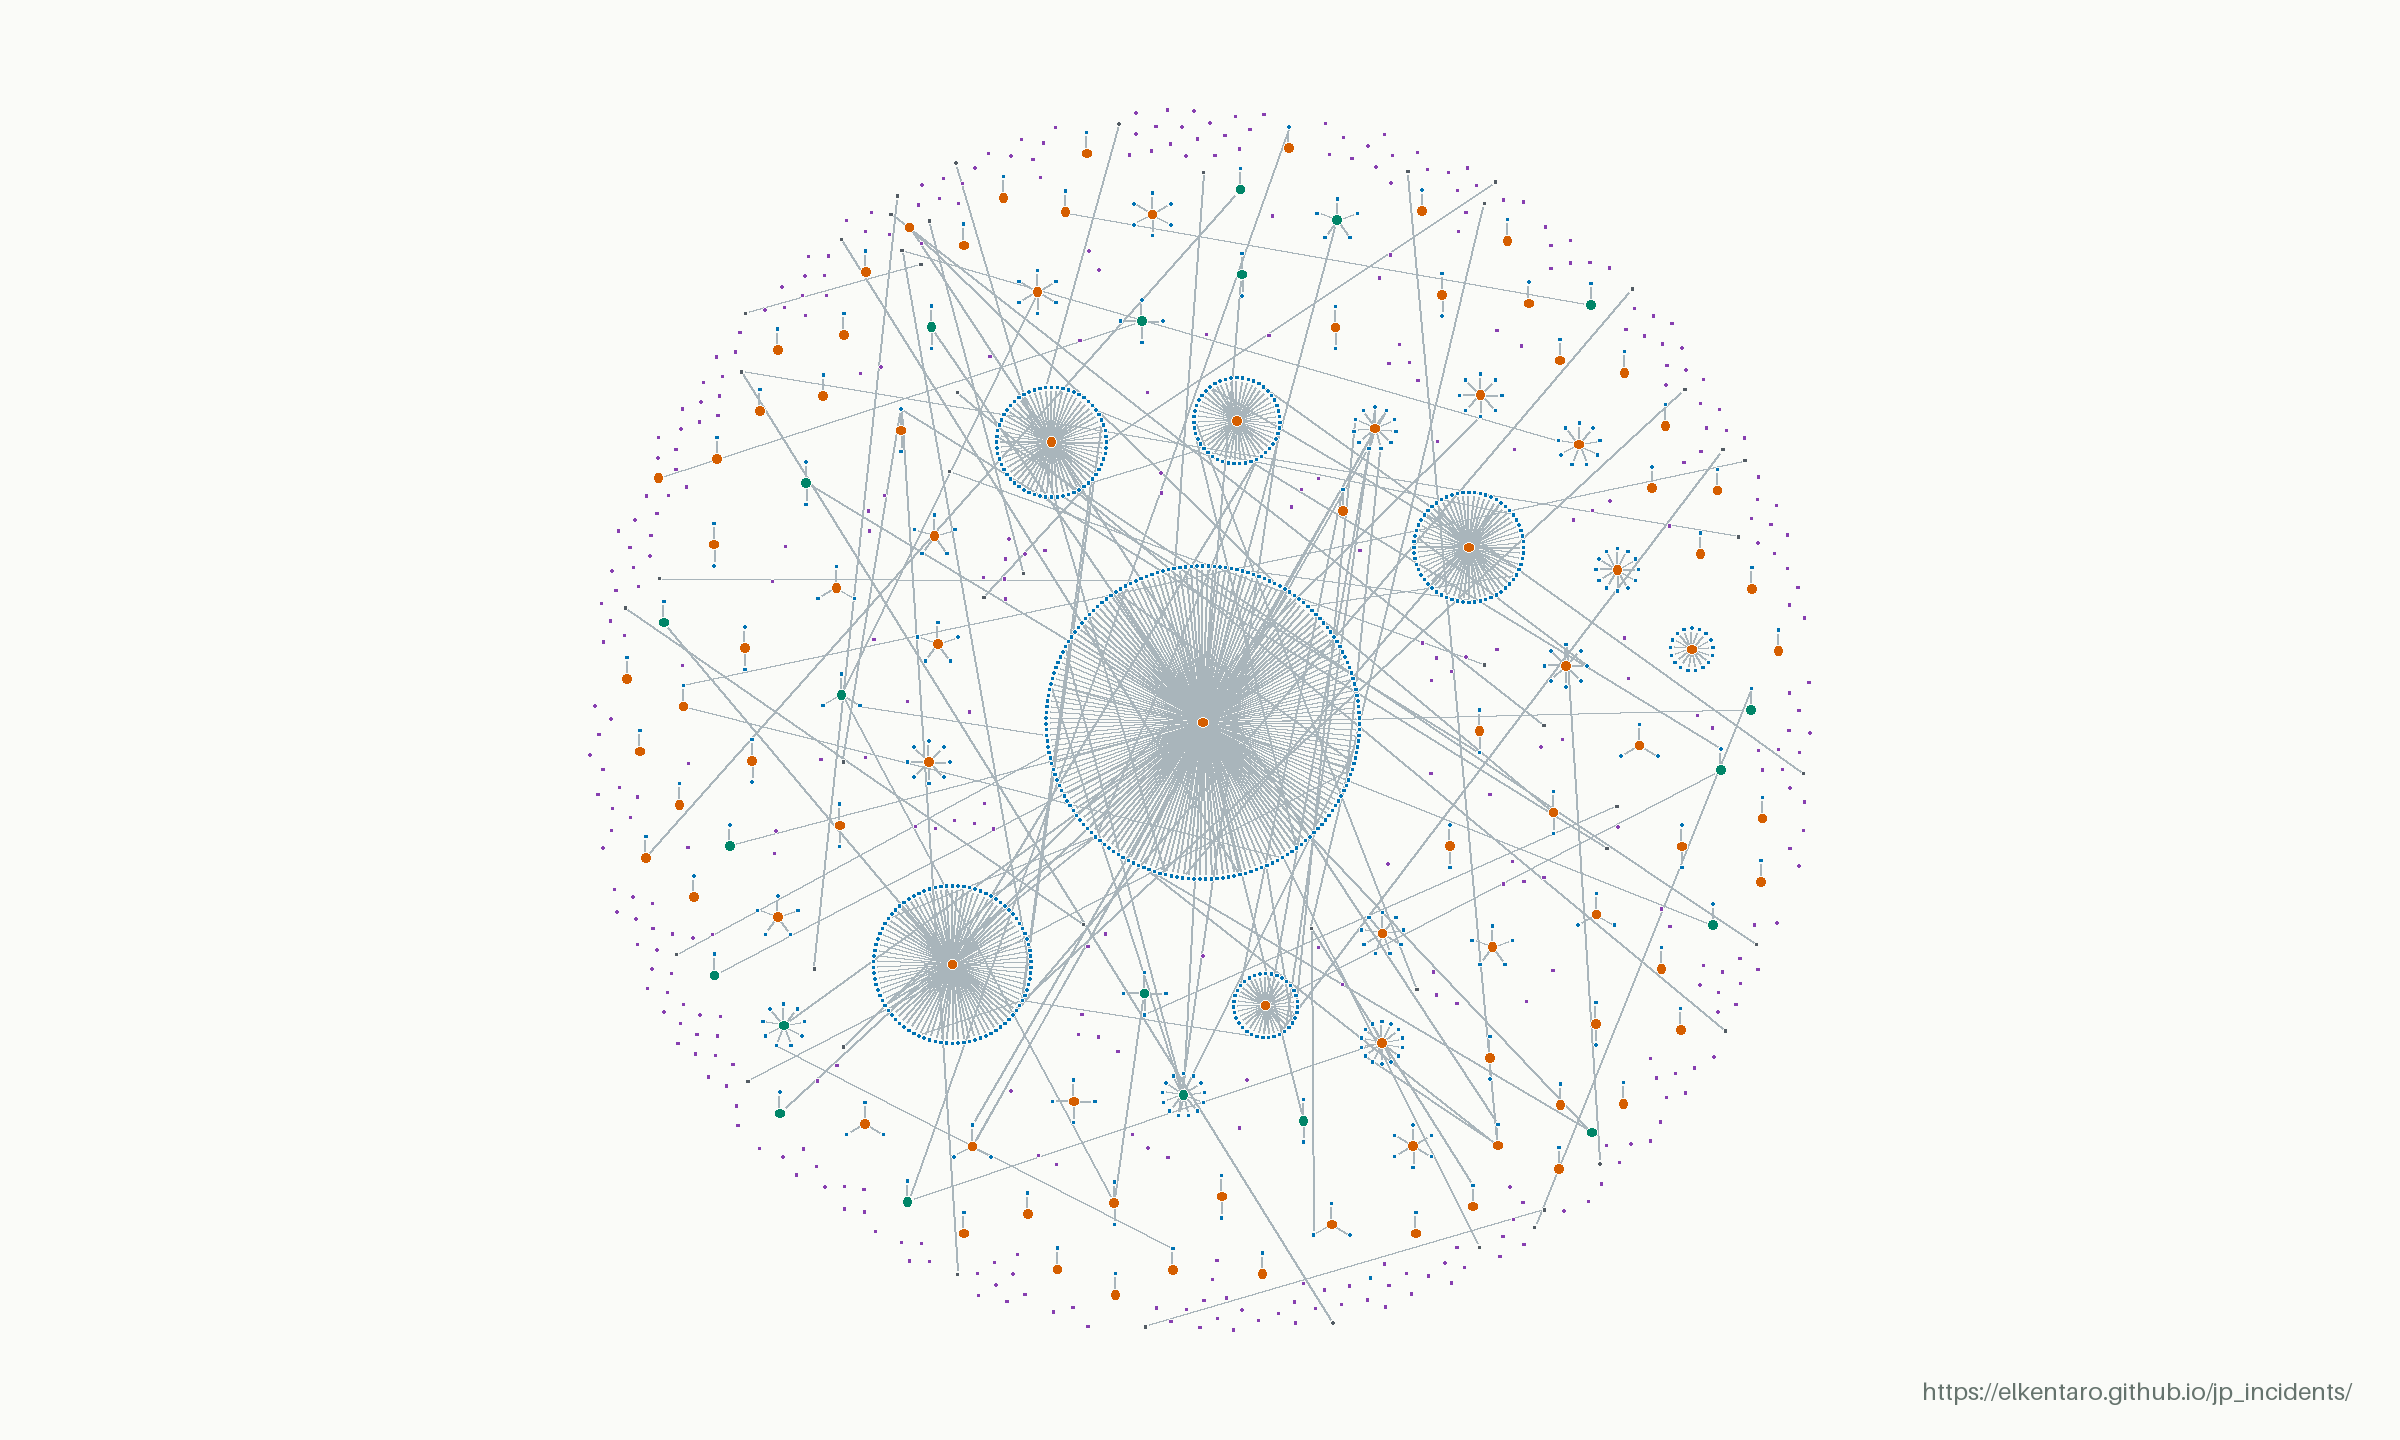
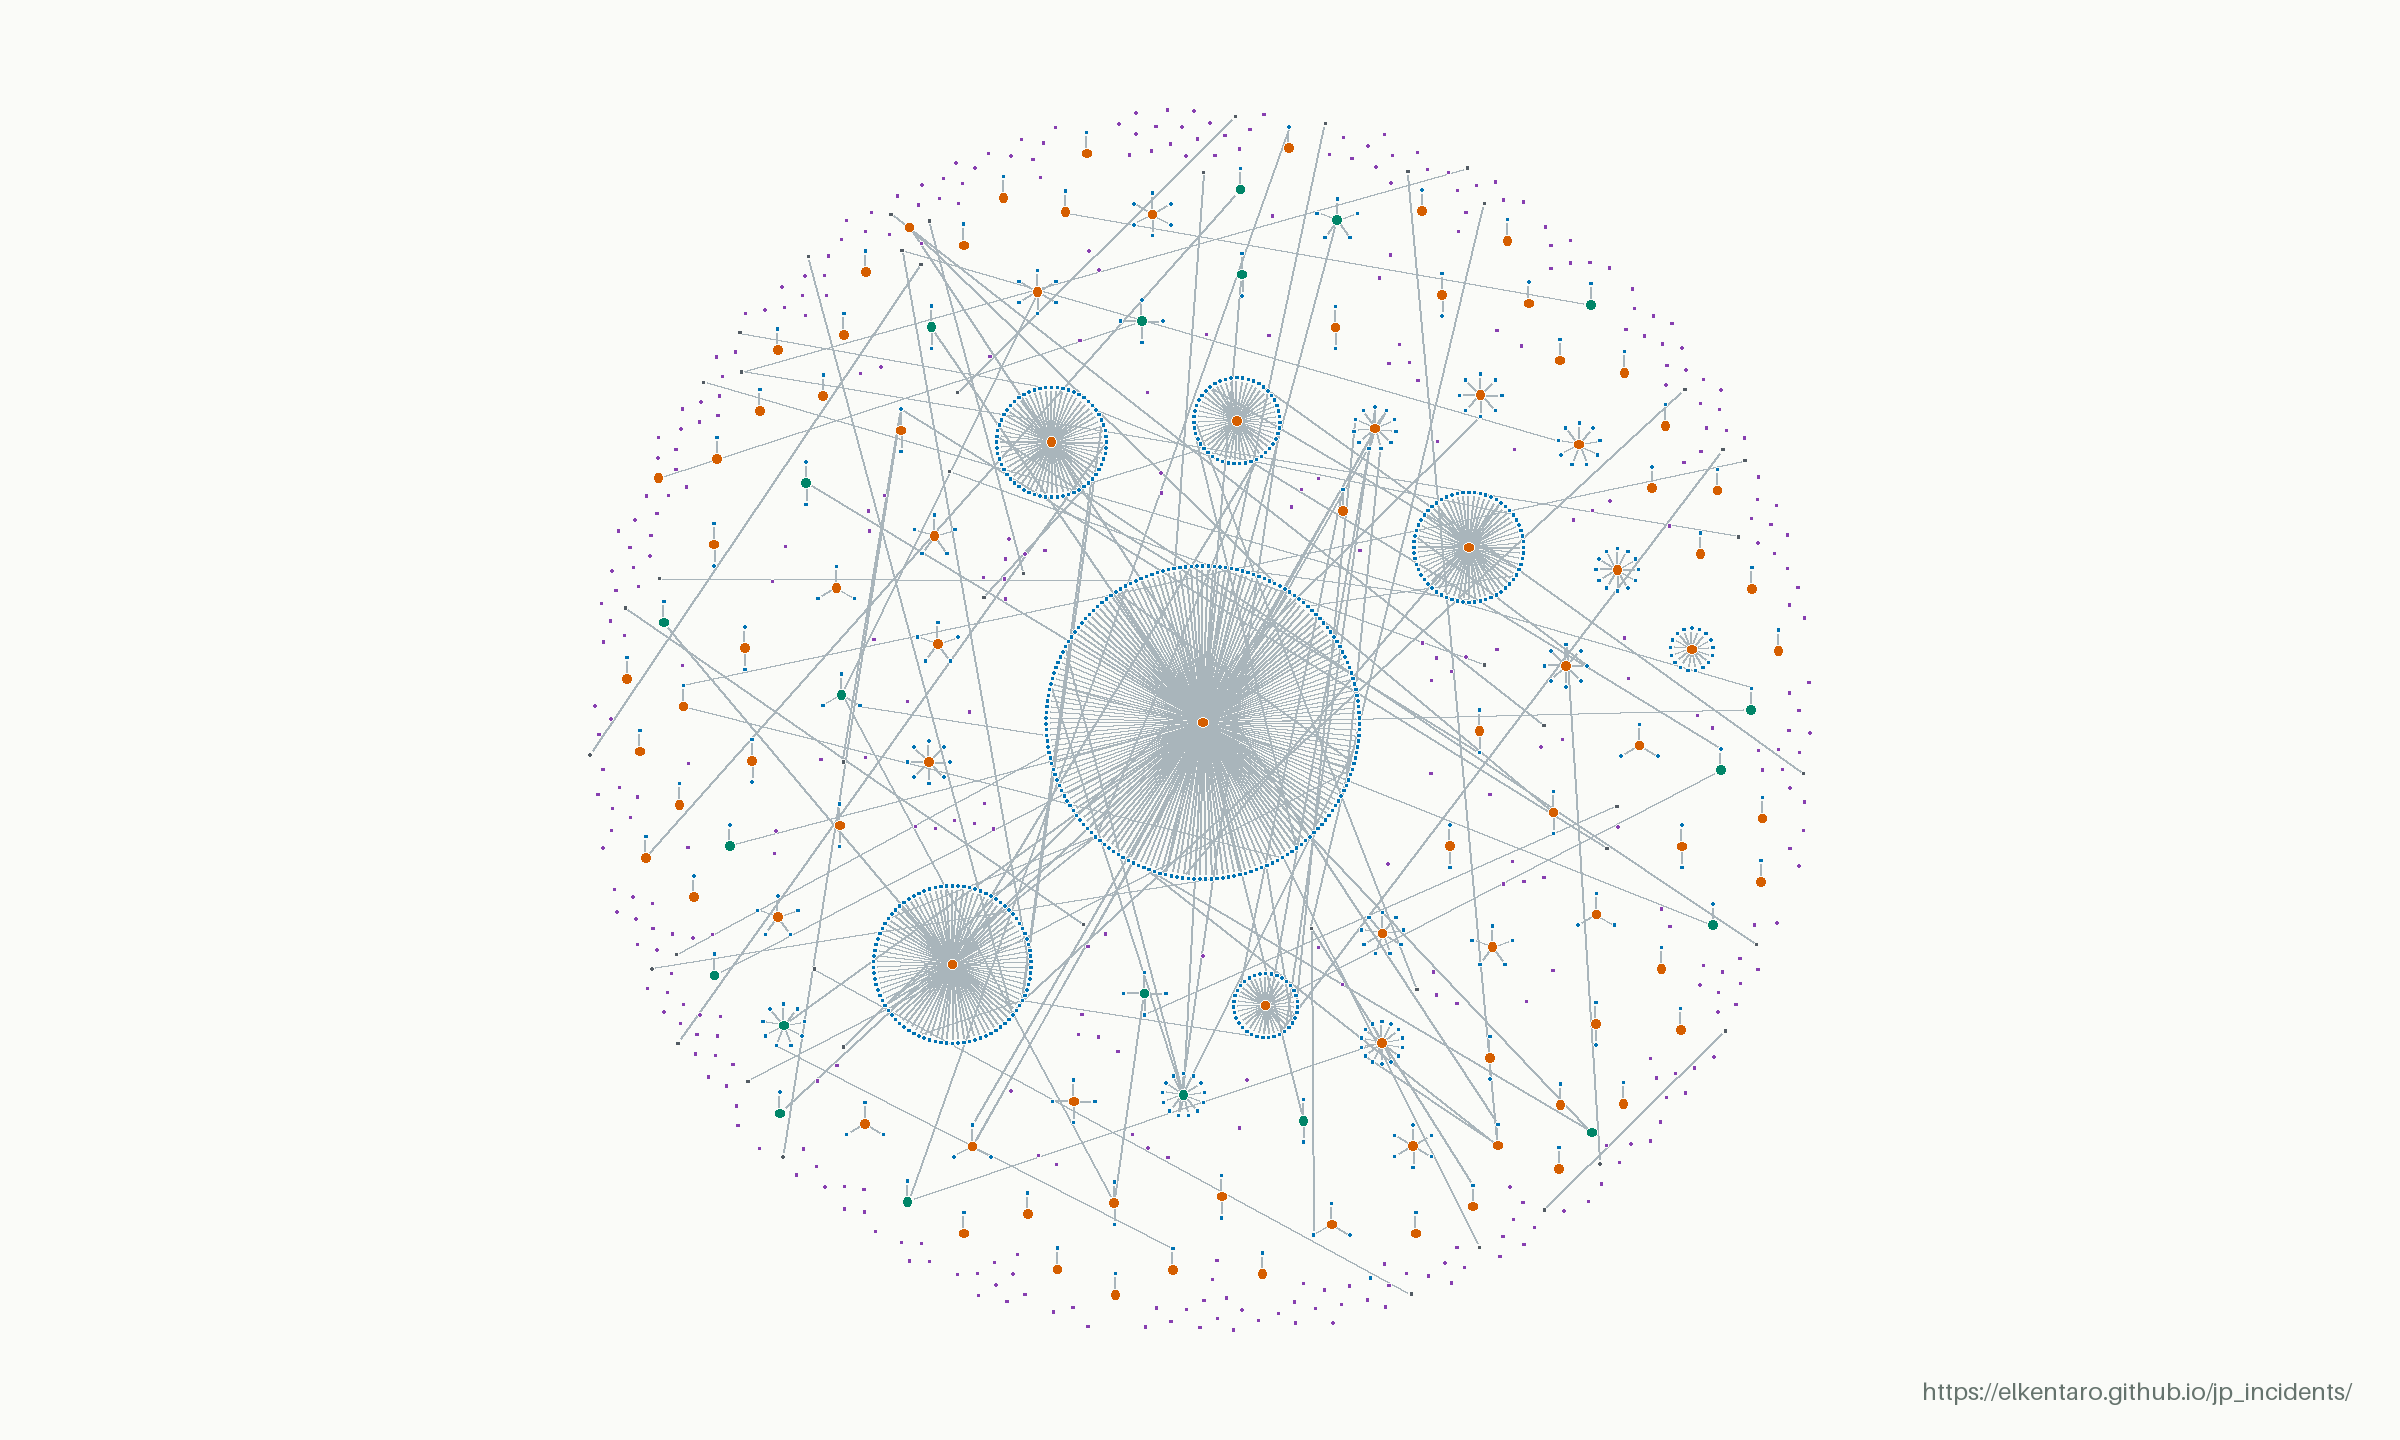
Update incident data (2026-11-17 02:17 UTC)

Changed region(s): [[0.375, 0.4688, 0.4062, 0.5], [0.3438, 0.2188, 0.375, 0.25]]

diff --git a/linkage.html b/linkage.html
@@ -32,15 +32,15 @@
     </section>
     <section class="direct-summary" aria-labelledby="direct-title">
       <dl class="direct-stats">
-        <div class="direct-total"><dt id="direct-title" data-copy="direct">Direct incidents</dt><dd id="direct-count">523</dd></div>
+        <div class="direct-total"><dt id="direct-title" data-copy="direct">Direct incidents</dt><dd id="direct-count">524</dd></div>
         <div><dt data-copy="directUpstream">Upstream incidents</dt><dd id="upstream-count">91</dd></div>
-        <div><dt data-copy="directStandalone">Standalone incidents</dt><dd id="standalone-count">432</dd></div>
+        <div><dt data-copy="directStandalone">Standalone incidents</dt><dd id="standalone-count">433</dd></div>
       </dl>
       <p class="direct-excluded"><strong id="downstream-count">768</strong> <span data-copy="directExcluded">downstream records excluded, including incidents with both roles.</span></p>
       <p class="direct-definition" data-copy="directDefinition">Direct incidents = upstream + standalone, based on recorded causal links. Standalone incidents have no upstream or downstream causal links, but may have other links, such as separate events at the same organization.</p>
     </section>
     <dl class="map-stats">
-      <div><dt data-copy="total">Incidents in snapshot</dt><dd>1291</dd></div>
+      <div><dt data-copy="total">Incidents in snapshot</dt><dd>1292</dd></div>
       <div><dt data-copy="linked">With recorded connections</dt><dd>905</dd></div>
       <div><dt data-copy="links">Recorded connections</dt><dd>855</dd></div>
       <div><dt data-copy="networks">Connected networks</dt><dd>79</dd></div>
@@ -50,13 +50,13 @@
         <img src="data/linkage-map.png" width="2400" height="1440" alt="Anonymized incident map. Orange upstream hubs connect to blue downstream incidents; purple unlinked incidents appear throughout the same map without connecting lines." data-copy-alt="alt">
       </div>
       <figcaption>
-        <div class="map-caption-meta"><span><span data-copy="updated">Last updated</span>: <time datetime="2026-11-17T01:16:38.736422+00:00">2026-11-17 01:16 UTC</time></span><a href="data/linkage-map.png" target="_blank" rel="noopener" data-copy="open">Open full-resolution image ↗</a></div>
+        <div class="map-caption-meta"><span><span data-copy="updated">Last updated</span>: <time datetime="2026-11-17T02:16:00.550447+00:00">2026-11-17 02:16 UTC</time></span><a href="data/linkage-map.png" target="_blank" rel="noopener" data-copy="open">Open full-resolution image ↗</a></div>
         <div class="map-key-section">
           <strong id="map-key-title" data-copy="key">Key</strong>
           <ul class="map-key" aria-labelledby="map-key-title">
             <li><span class="key-dot upstream" aria-hidden="true"></span><span data-copy="keyUpstream">Upstream</span></li>
             <li><span class="key-dot downstream" aria-hidden="true"></span><span data-copy="keyDownstream">Downstream</span></li>
-            <li><span class="key-dot standalone" aria-hidden="true"></span><span data-copy="keyStandalone">Unlinked</span><span>(386)</span></li>
+            <li><span class="key-dot standalone" aria-hidden="true"></span><span data-copy="keyStandalone">Unlinked</span><span>(387)</span></li>
             <li><span class="key-dot both" aria-hidden="true"></span><span data-copy="keyBoth">Both roles</span></li>
             <li><span class="key-dot related" aria-hidden="true"></span><span data-copy="keyRelated">Other related</span></li>
             <li><span class="key-line" aria-hidden="true"></span><span data-copy="keyRelationship">Recorded relationship</span></li>
@@ -69,7 +69,7 @@
       <section><h2 data-copy="readingTitle">Reading the map</h2><p data-copy="reading">Orange marks upstream incidents, blue downstream incidents, and purple unlinked incidents with no recorded connection. Teal marks incidents with both upstream and downstream roles; charcoal marks other related incidents. A missing connection does not establish that two incidents are unrelated.</p></section>
       <section><h2 data-copy="snapshotTitle">About this snapshot</h2><p data-copy="snapshot">The static image is refreshed when published incidents or relationships change, and at least every 24 hours during normal publication. Larger upstream clusters have extra spacing to keep their victims apart. Names, incident IDs, source links and incident dates are omitted; the connection pattern is retained. It is an overview of recorded relationships, not a complete map of cyber incidents in Japan.</p></section>
     </div>
-    <p class="map-source"><span data-copy="sourceUpdated">Source data updated</span>: <time datetime="2026-11-17T01:16:38+00:00">2026-11-17T01:16:38+00:00</time> · <a href="./" data-copy="browse">Browse the incident index</a></p>
+    <p class="map-source"><span data-copy="sourceUpdated">Source data updated</span>: <time datetime="2026-11-17T02:16:00+00:00">2026-11-17T02:16:00+00:00</time> · <a href="./" data-copy="browse">Browse the incident index</a></p>
   </main>
   <footer><div class="shell footer-inner"><p data-copy="footer">Public reports. Recorded relationships. An anonymized overview.</p><a href="./" data-copy="back">Back to incidents</a></div></footer>
   <script src="linkage.js?v=20261107-spacing" defer></script>
